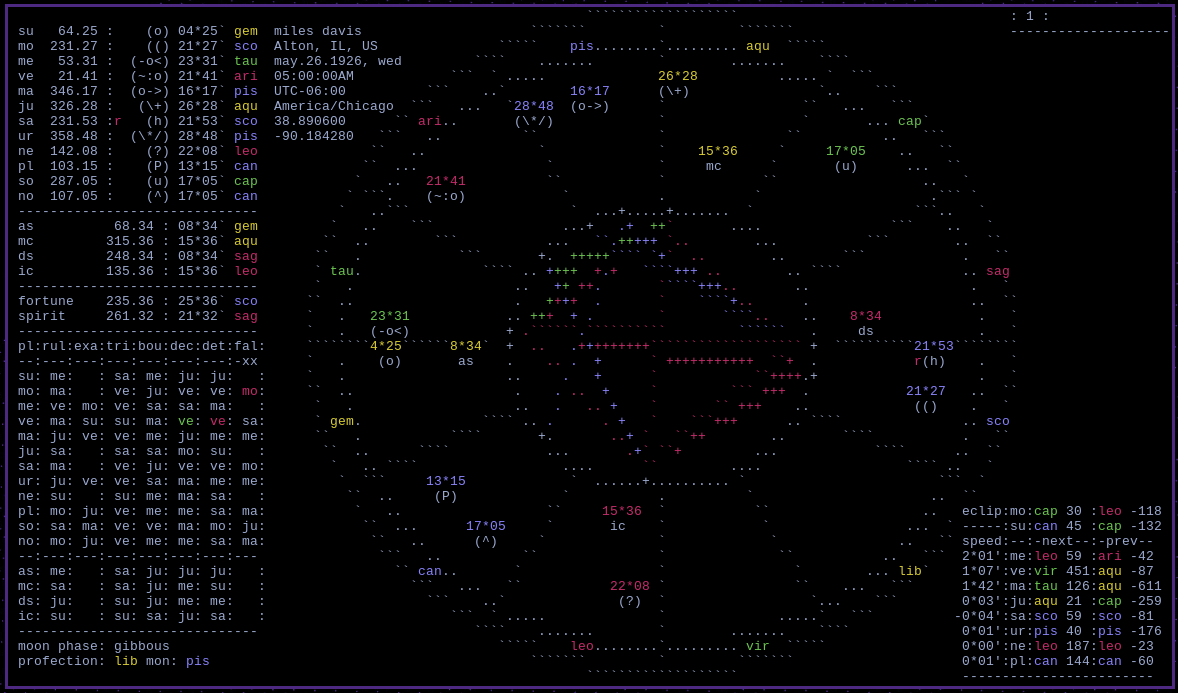
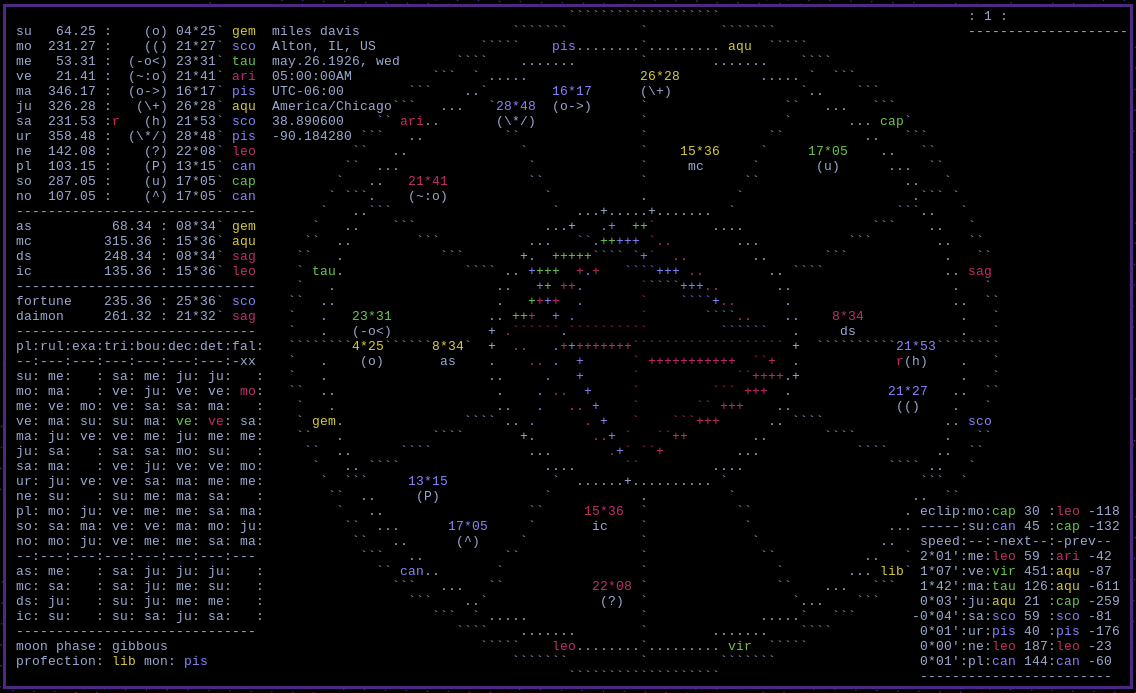
img

diff --git a/site/news/diary.html b/site/news/diary.html
@@ -31,6 +31,17 @@
 <p><a href="./">Return to index</a></p>
 <p>Article published by: yam</p>
 <p>Date of publication: 15 October 2026</p>
+<ul class="quicknav">
+<li>
+<a href="saturn-mars-neptune-aries-anger.html">&lt;&lt;</a>
+</li>
+<li>
+<a href="0-aligned-astro.html">&lt; Prev</a>
+</li>
+<li>
+<a href="diary.html">&gt;&gt;</a>
+</li>
+</ul>
 <p><img loading="lazy" src="img/diary.jpeg" alt="screenshot of the diary" />)</p>
 <p>easily log experience, feelings, into a simple to grep directory.
 Creates a new directory for the current year, and appends to the same
@@ -39,7 +50,8 @@ page for each day.</p>
 <hr />
 <div id="footer">
 <hr />
-<p><a href="https://codeberg.org/yamlynn/astro">install astro</a></p>
+<p><a href="https://codeberg.org/yamlynn/astro">astro: available
+here</a></p>
 </div>
 <p>Markdown file for this page: <a
 href="https://sweetpotato.press/news/diary.md"

diff --git a/site/index.html b/site/index.html
@@ -47,11 +47,6 @@ easily work with desktop environment windows or window manager
 scratchpads.</p>
 <p>come say hi on <a href="https://libera.chat">libera.chat</a> channel
 #astro</p>
-<div style="text-align: center;">
-<video loading="lazy" controls style="width: 100%; height: auto;">
-<source src="../img/astro.mp4" type="video/mp4">
-</video>
-</div>
 <figure>
 <img loading="lazy" src="../img/astro.png"
 alt="miles davis birth chart drawn with astro" />
@@ -84,7 +79,8 @@ why not take that chance?</p>
 <hr />
 <div id="footer">
 <hr />
-<p><a href="https://codeberg.org/yamlynn/astro">install astro</a></p>
+<p><a href="https://codeberg.org/yamlynn/astro">astro: available
+here</a></p>
 </div>
 <p>Markdown file for this page: <a
 href="https://sweetpotato.press/index.md"

diff --git a/site/news/incremental-animation.html b/site/news/incremental-animation.html
@@ -53,7 +53,7 @@ named charts. It shows the current yearly and monthly sign.</a></li>
 <a href="bsd.html">Next &gt;</a>
 </li>
 <li>
-<a href="0-aligned-astro.html">&gt;&gt;</a>
+<a href="diary.html">&gt;&gt;</a>
 </li>
 </ul>
 <p>there is no longer any need to animate by a single increment to parse
@@ -74,7 +74,8 @@ is also a simple profection calculation from the ascendent added to
 named charts. It shows the current yearly and monthly sign.</h2>
 <div id="footer">
 <hr />
-<p><a href="https://codeberg.org/yamlynn/astro">install astro</a></p>
+<p><a href="https://codeberg.org/yamlynn/astro">astro: available
+here</a></p>
 </div>
 <p>Markdown file for this page: <a
 href="https://sweetpotato.press/news/incremental-animation.md"

diff --git a/site/news/prettier-paged-search-menu.html b/site/news/prettier-paged-search-menu.html
@@ -51,7 +51,7 @@ id="toc-major-search-menu-upgrade">major search menu upgrade! ^ ~
 <a href="transits.html">Next &gt;</a>
 </li>
 <li>
-<a href="bsd.html">&gt;&gt;</a>
+<a href="diary.html">&gt;&gt;</a>
 </li>
 </ul>
 <div class="h"><h2 id="major-search-menu-upgrade">major search menu upgrade! ^ ~ ^</h2><a aria-hidden="true" href="#major-search-menu-upgrade">[link]</a></div>
@@ -71,7 +71,8 @@ menu</figcaption>
 <hr />
 <div id="footer">
 <hr />
-<p><a href="https://codeberg.org/yamlynn/astro">install astro</a></p>
+<p><a href="https://codeberg.org/yamlynn/astro">astro: available
+here</a></p>
 </div>
 <p>Markdown file for this page: <a
 href="https://sweetpotato.press/news/prettier-paged-search-menu.md"

diff --git a/site/docs.html b/site/docs.html
@@ -47,9 +47,8 @@ github</a></p>
 <ul>
 <li>install ncurses (most os have it by default)<br />
 </li>
-<li><code>make</code> to build locally<br />
-</li>
-<li><code>doas make install</code> to install to $PATH (sudo is also
+<li><code>make</code> to build</li>
+<li><code>doas make install</code> to install (sudo is also
 acceptable)<br />
 </li>
 <li>type astro in the terminal to launch</li>
@@ -81,7 +80,8 @@ astro</li>
 <hr />
 <div id="footer">
 <hr />
-<p><a href="https://codeberg.org/yamlynn/astro">install astro</a></p>
+<p><a href="https://codeberg.org/yamlynn/astro">astro: available
+here</a></p>
 </div>
 <p>Markdown file for this page: <a
 href="https://sweetpotato.press/docs.md"

diff --git a/site/news/saturn-mars-neptune-aries-anger.html b/site/news/saturn-mars-neptune-aries-anger.html
@@ -48,7 +48,7 @@ anger</a></li>
 <a href="prettier-paged-search-menu.html">Next &gt;</a>
 </li>
 <li>
-<a href="bsd.html">&gt;&gt;</a>
+<a href="diary.html">&gt;&gt;</a>
 </li>
 </ul>
 <h2 id="saturn-mars-neptune-aries-anger">saturn, mars, neptune, aries,
@@ -99,7 +99,8 @@ the hearts, head, and in action! forward, forward! we must</p>
 <hr />
 <div id="footer">
 <hr />
-<p><a href="https://codeberg.org/yamlynn/astro">install astro</a></p>
+<p><a href="https://codeberg.org/yamlynn/astro">astro: available
+here</a></p>
 </div>
 <p>Markdown file for this page: <a
 href="https://sweetpotato.press/news/saturn-mars-neptune-aries-anger.md"

diff --git a/site/news/config.html b/site/news/config.html
@@ -50,7 +50,7 @@ out astro here</a></li>
 <a href="incremental-animation.html">Next &gt;</a>
 </li>
 <li>
-<a href="bsd.html">&gt;&gt;</a>
+<a href="diary.html">&gt;&gt;</a>
 </li>
 </ul>
 <hr />
@@ -66,7 +66,8 @@ href="https://sweetpotato.press/docs.html#how-to-set-default-location">docs</a><
 href="https://codeberg.org/yamlynn/astro">check out astro here</a></h2>
 <div id="footer">
 <hr />
-<p><a href="https://codeberg.org/yamlynn/astro">install astro</a></p>
+<p><a href="https://codeberg.org/yamlynn/astro">astro: available
+here</a></p>
 </div>
 <p>Markdown file for this page: <a
 href="https://sweetpotato.press/news/config.md"

diff --git a/site/news/transits.html b/site/news/transits.html
@@ -50,7 +50,7 @@ changes to astro</a></li>
 <a href="zr.html">Next &gt;</a>
 </li>
 <li>
-<a href="bsd.html">&gt;&gt;</a>
+<a href="diary.html">&gt;&gt;</a>
 </li>
 </ul>
 <div class="h"><h2 id="huge-changes-to-astro">huge changes to astro</h2><a aria-hidden="true" href="#huge-changes-to-astro">[link]</a></div>
@@ -69,7 +69,8 @@ here</a></p>
 </ul>
 <div id="footer">
 <hr />
-<p><a href="https://codeberg.org/yamlynn/astro">install astro</a></p>
+<p><a href="https://codeberg.org/yamlynn/astro">astro: available
+here</a></p>
 </div>
 <p>Markdown file for this page: <a
 href="https://sweetpotato.press/news/transits.md"

diff --git a/site/news/zr.html b/site/news/zr.html
@@ -51,7 +51,7 @@ astro</a></li>
 <a href="config.html">Next &gt;</a>
 </li>
 <li>
-<a href="bsd.html">&gt;&gt;</a>
+<a href="diary.html">&gt;&gt;</a>
 </li>
 </ul>
 <h2 id="now-easily-calculated-by-astro">now easily calculated by
@@ -71,7 +71,8 @@ shown with a +. choose which lot to release from by pressing tab.</p>
 <hr />
 <div id="footer">
 <hr />
-<p><a href="https://codeberg.org/yamlynn/astro">install astro</a></p>
+<p><a href="https://codeberg.org/yamlynn/astro">astro: available
+here</a></p>
 </div>
 <p>Markdown file for this page: <a
 href="https://sweetpotato.press/news/zr.md"

diff --git a/site/news/bsd.html b/site/news/bsd.html
@@ -39,7 +39,10 @@
 <a href="incremental-animation.html">&lt; Prev</a>
 </li>
 <li>
-<a href="bsd.html">&gt;&gt;</a>
+<a href="0-aligned-astro.html">Next &gt;</a>
+</li>
+<li>
+<a href="diary.html">&gt;&gt;</a>
 </li>
 </ul>
 <hr />
@@ -51,7 +54,8 @@ linux and bsd and both worked. ive been awake 24 hours !</p>
 <hr />
 <div id="footer">
 <hr />
-<p><a href="https://codeberg.org/yamlynn/astro">install astro</a></p>
+<p><a href="https://codeberg.org/yamlynn/astro">astro: available
+here</a></p>
 </div>
 <p>Markdown file for this page: <a
 href="https://sweetpotato.press/news/bsd.md"

diff --git a/site/news/0-aligned-astro.html b/site/news/0-aligned-astro.html
@@ -39,7 +39,10 @@
 <a href="bsd.html">&lt; Prev</a>
 </li>
 <li>
-<a href="0-aligned-astro.html">&gt;&gt;</a>
+<a href="diary.html">Next &gt;</a>
+</li>
+<li>
+<a href="diary.html">&gt;&gt;</a>
 </li>
 </ul>
 <p>a<br />
@@ -59,7 +62,8 @@ oh me oh myyyy :3</p>
 <p>god bless`</p>
 <div id="footer">
 <hr />
-<p><a href="https://codeberg.org/yamlynn/astro">install astro</a></p>
+<p><a href="https://codeberg.org/yamlynn/astro">astro: available
+here</a></p>
 </div>
 <p>Markdown file for this page: <a
 href="https://sweetpotato.press/news/0-aligned-astro.md"

diff --git a/site/news/index.html b/site/news/index.html
@@ -51,7 +51,8 @@ class="title">saturn, mars, neptune, aries, anger</a> <span
 class="date">28 August 2026</span></p>
 <div id="footer">
 <hr />
-<p><a href="https://codeberg.org/yamlynn/astro">install astro</a></p>
+<p><a href="https://codeberg.org/yamlynn/astro">astro: available
+here</a></p>
 </div>
 <p>Markdown file for this page: <a
 href="https://sweetpotato.press/news/index.md"
